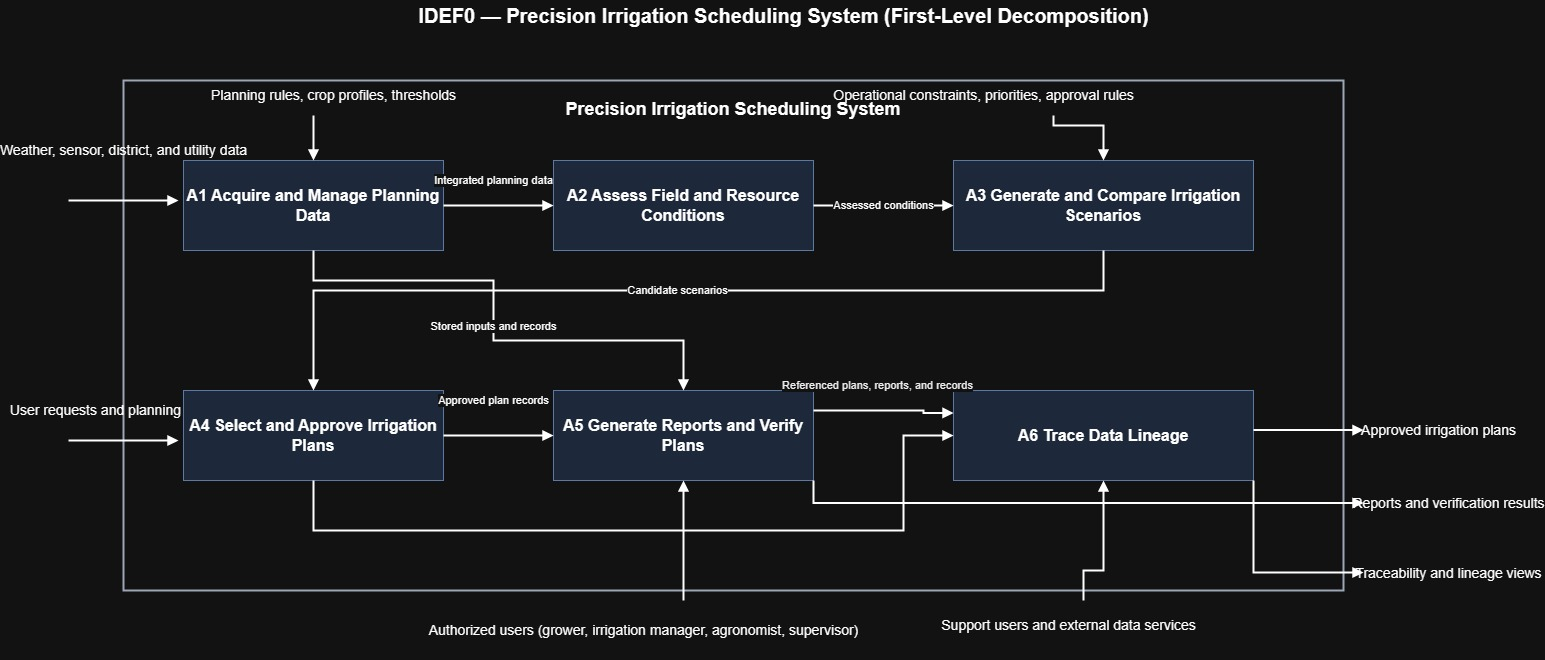
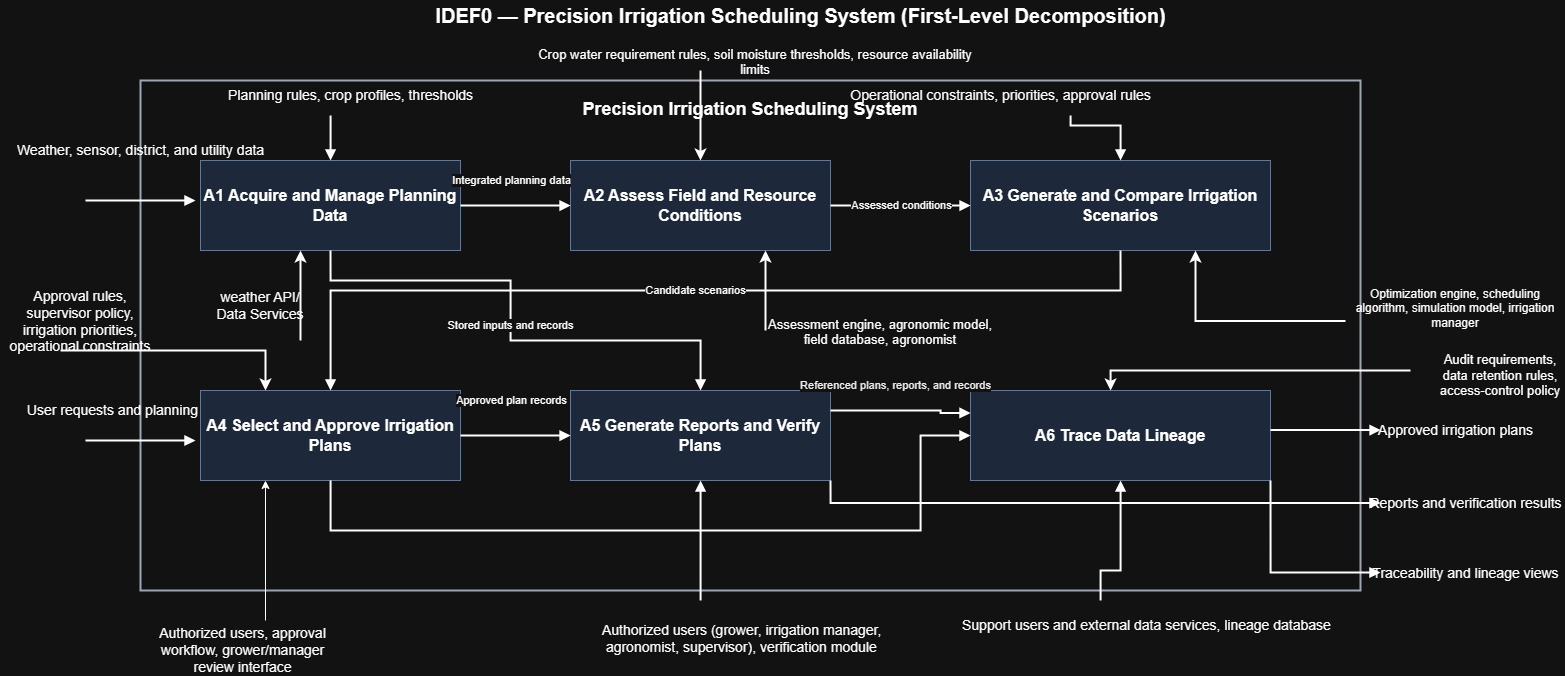
adding

diff --git a/systems-engineering/project/precision_irrigation_scheduling_system.html b/systems-engineering/project/precision_irrigation_scheduling_system.html
@@ -3167,7 +3167,7 @@
               Assessed conditions, field/resource condition summaries,
               planning-relevant alerts
             </td>
-            <td>Irrigation manager, agronomist, assessment logic</td>
+            <td>Irrigation manager, agronomist, assessment logic, field database</td>
             <td>
               Receives <strong>integrated planning data</strong> from
               <strong>A1</strong>; sends <strong>assessed conditions</strong> to
@@ -3188,7 +3188,7 @@
               alternatives
             </td>
             <td>
-              Scenario engine, comparison logic, irrigation manager, grower
+              Scenario engine, comparison logic, irrigation manager, grower, irrigation manager
             </td>
             <td>
               Receives <strong>assessed conditions</strong> from
@@ -3201,7 +3201,7 @@
             <td>Candidate scenarios from A3</td>
             <td>Approval policy, user authority, management priorities</td>
             <td>Approved irrigation plans, approval decision records</td>
-            <td>Grower / farm owner, irrigation manager</td>
+            <td>Grower / farm owner, irrigation manager, review interface, approval workflows</td>
             <td>
               Receives <strong>candidate scenarios</strong> from
               <strong>A3</strong>; sends
@@ -3218,7 +3218,7 @@
             </td>
             <td>Reporting rules, verification criteria, report templates</td>
             <td>Reports, verification results, plan review summaries</td>
-            <td>Irrigation manager, field supervisor / crew lead</td>
+            <td>Irrigation manager, field supervisor / crew lead, verification module</td>
             <td>
               Receives <strong>approved plan and decision record</strong> from
               <strong>A4</strong>; receives
@@ -3234,7 +3234,7 @@
             <td>Referenced plans, reports, and records from A5</td>
             <td>Lineage rules, metadata model, audit/query rules</td>
             <td>Traceability views, lineage views, provenance summaries</td>
-            <td>Data analyst, support users, metadata services</td>
+            <td>Data analyst, support users, metadata services, lineage database etc.</td>
             <td>
               Receives
               <strong>referenced plans, reports, and records</strong> from
